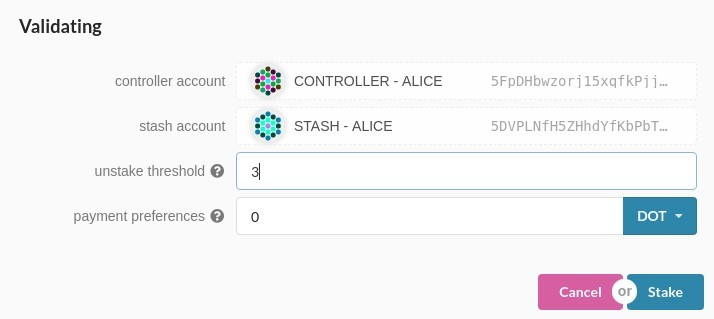
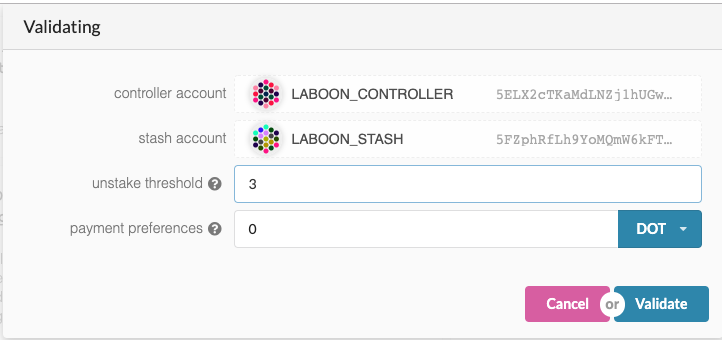
update staking

diff --git a/docs/polkadot/node/guides/how-to-validate.md b/docs/polkadot/node/guides/how-to-validate.md
@@ -109,7 +109,7 @@ It is now time to setup our validator. We will do the following:
 - Select the `Controller`. This is the account that will decide when to start or stop validating.
 - Select the `Session`. This is the account whose seed will be used to run the node.
 
-First, go to [Staking](https://polkadot.js.org/apps/#/staking/actions) page on the Polkadot Dashboard, you should see the accounts that you created earlier.
+First, go to [Staking](https://polkadot.js.org/apps/#/staking/actions) page on the Polkadot Dashboard, and click on `Account Actions` at the top of the page.  You should see the accounts that you created earlier.
 
 Select your `Stash` account, in our case it has, 200 mDOTs, and click on the `Bond Funds` button. We will bond 100 mDOTs.
 
@@ -144,7 +144,7 @@ Click on `Validate`.
 - **Unstake threshold** - how often you want to be reported offline (and slashed) before being removed from the validator set.
 - **Payment preferences** - rewards you will keep, the rest will be shared among you and your nominators.
 
-Click `Stake`
+Click `Validate`
 
 Open your terminal, if your node is fully synchronized, run your validator with the seed from the `Session` account.
 
